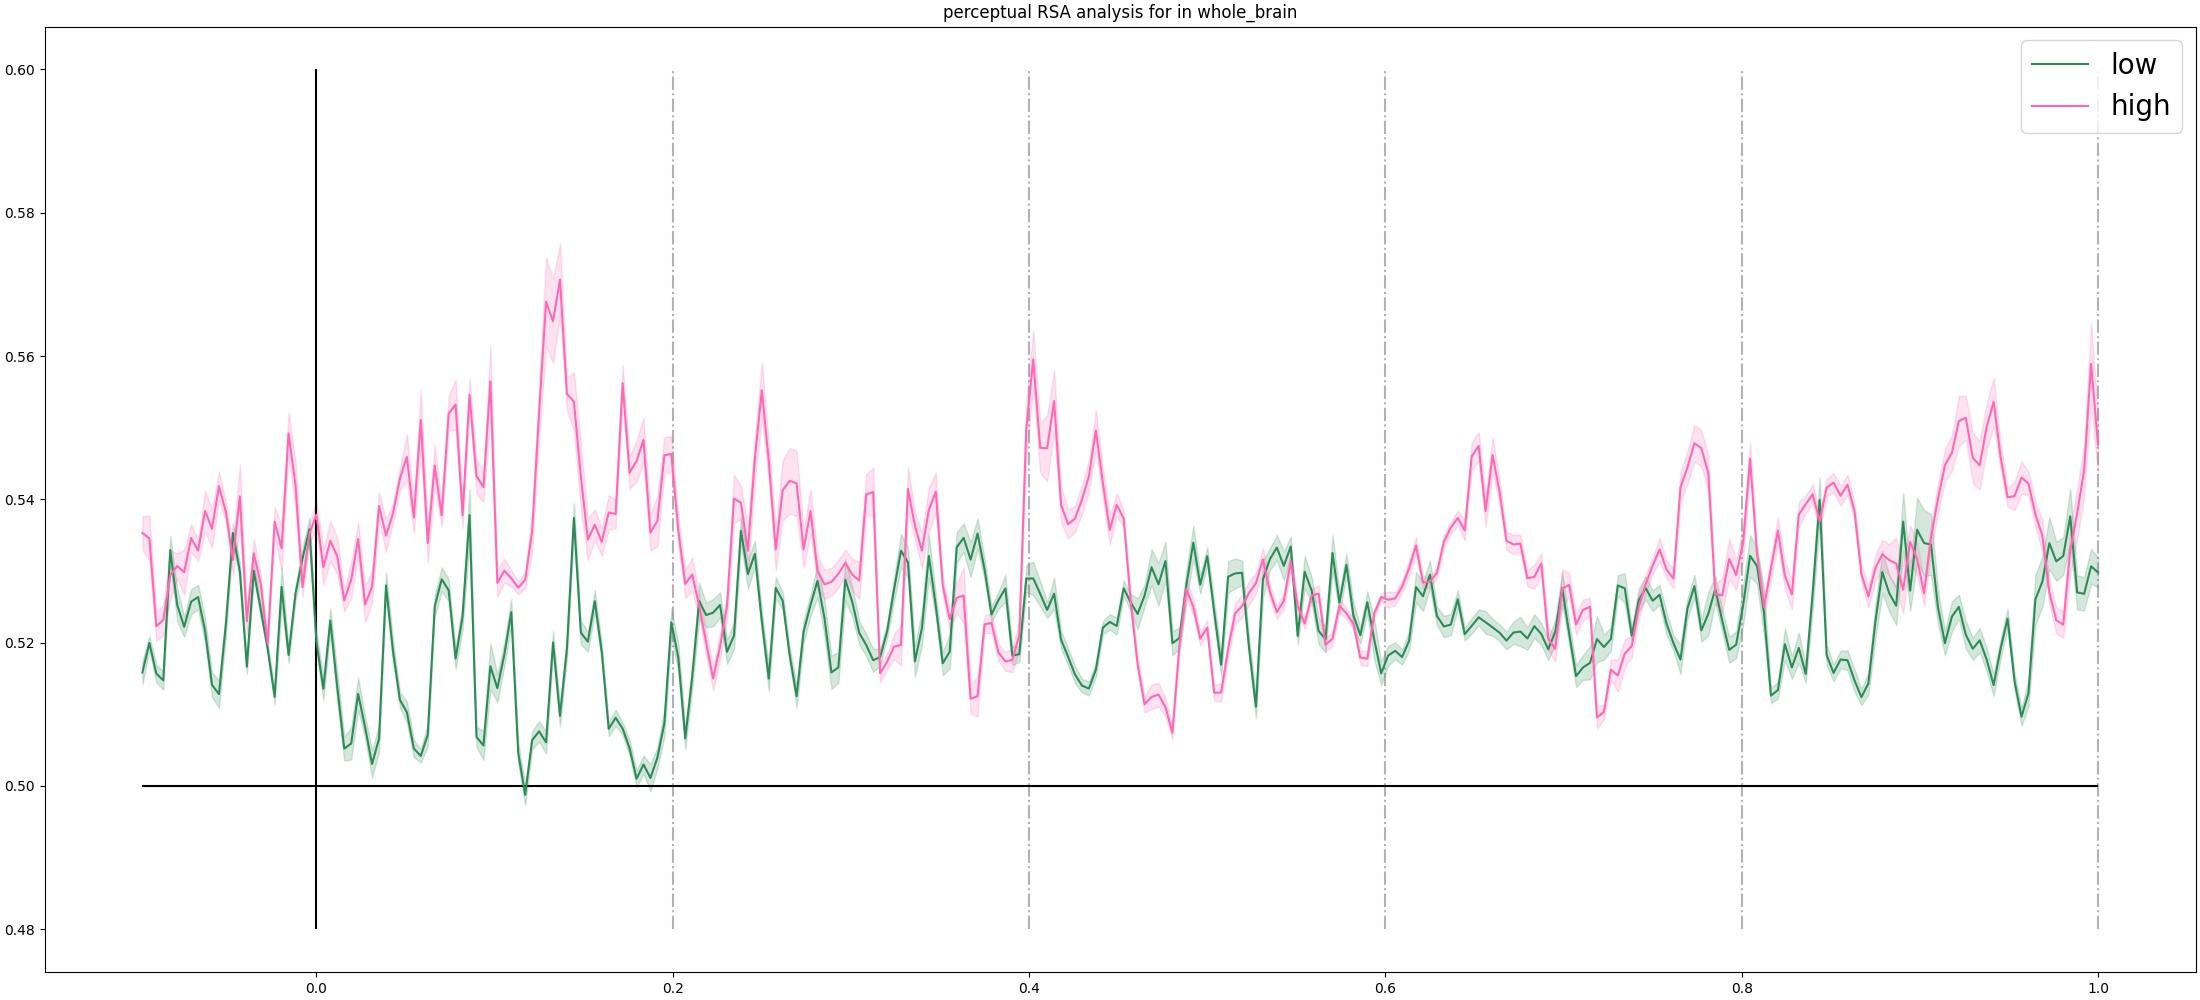
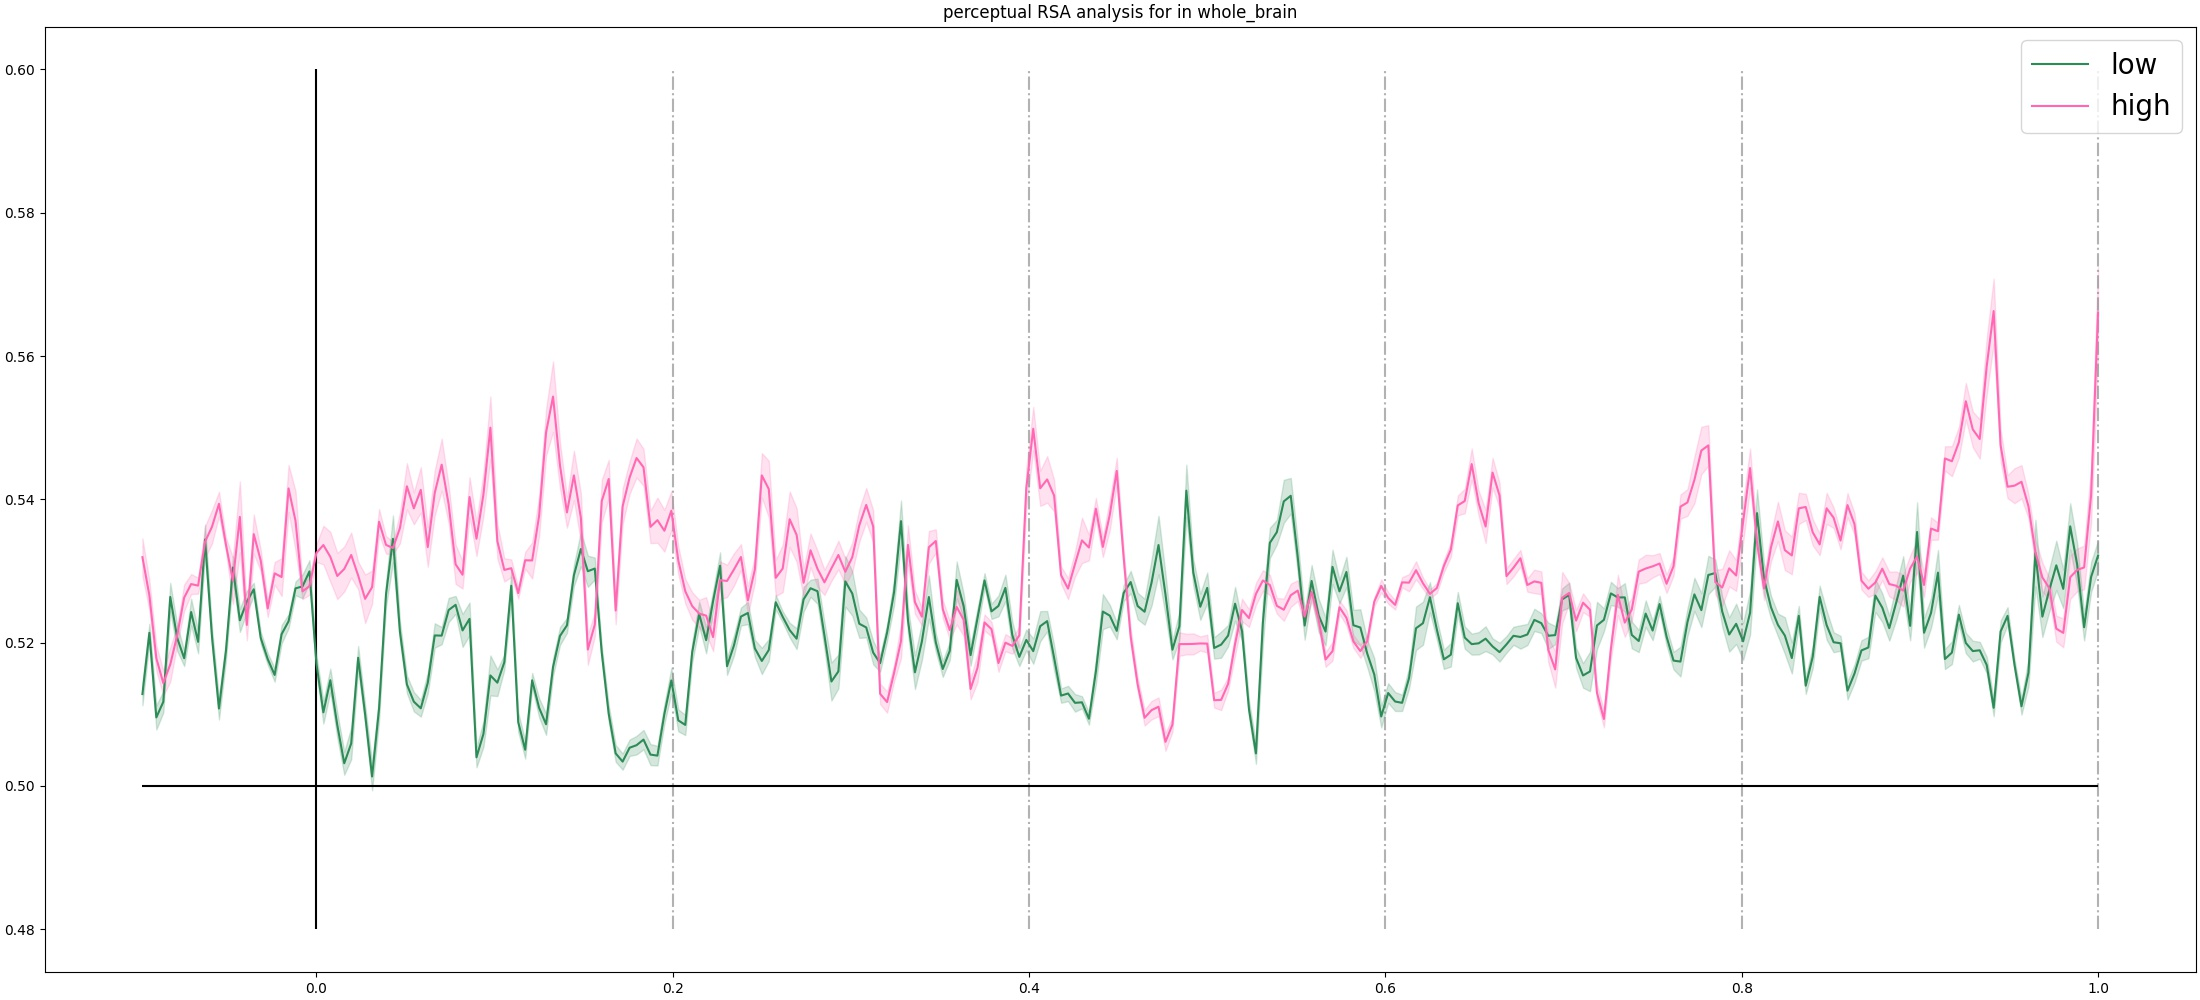
new plots

Changed region(s): [[0.0618, 0.248, 0.9582, 0.775]]

diff --git a/04_rsa_simple.py b/04_rsa_simple.py
@@ -265,12 +265,12 @@ for model in [
                                     eeg_f,
                                     verbose=False,
                                     preload=True)
-            s_data = raw_f.get_data(picks='eeg')
-            #s_data_unscaled = raw_f.get_data(picks='eeg')
+            #s_data = raw_f.get_data(picks='eeg')
+            s_data_unscaled = raw_f.get_data(picks='eeg')
             ### Scaling 
-            #s_data = mne.decoding.Scaler(raw_f.info, \
-            #            scalings='mean'\
-            #            ).fit_transform(s_data_unscaled)
+            s_data = mne.decoding.Scaler(raw_f.info, \
+                        scalings='mean'\
+                        ).fit_transform(s_data_unscaled)
             xs = raw_f.times
             events = raw_f.events
             ### initializing ERPs
